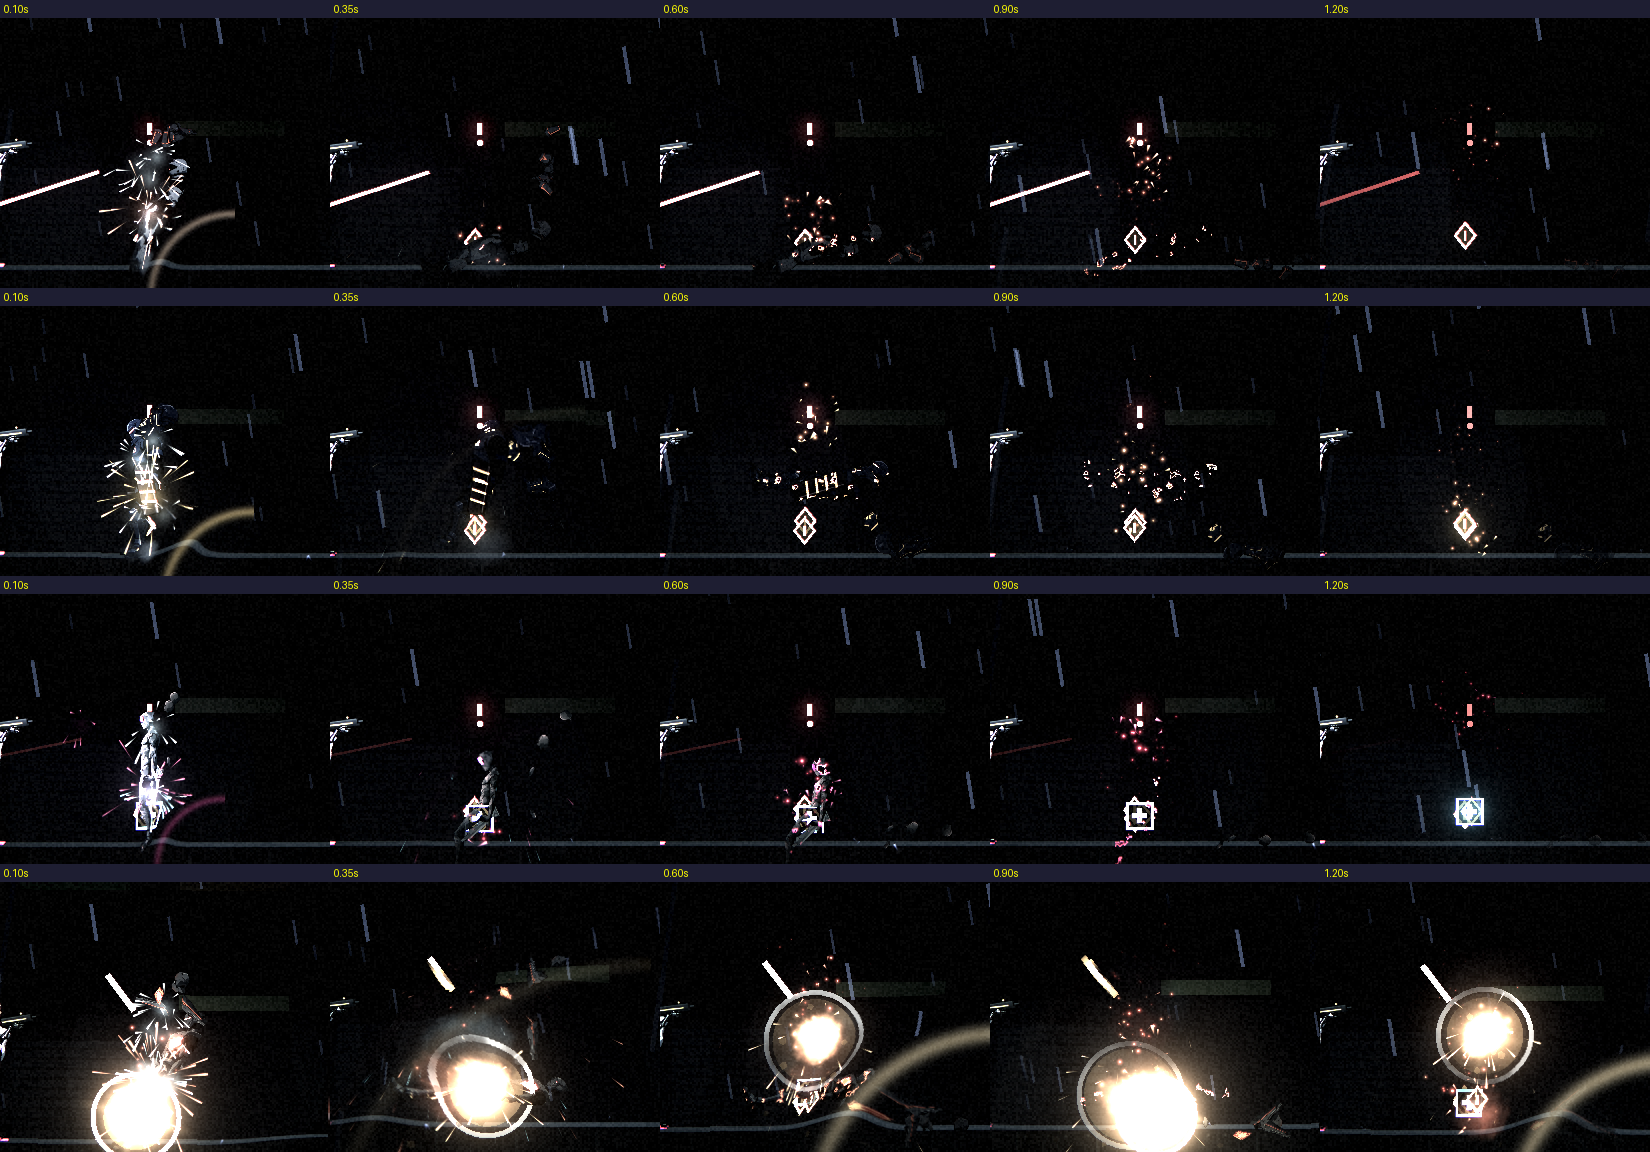
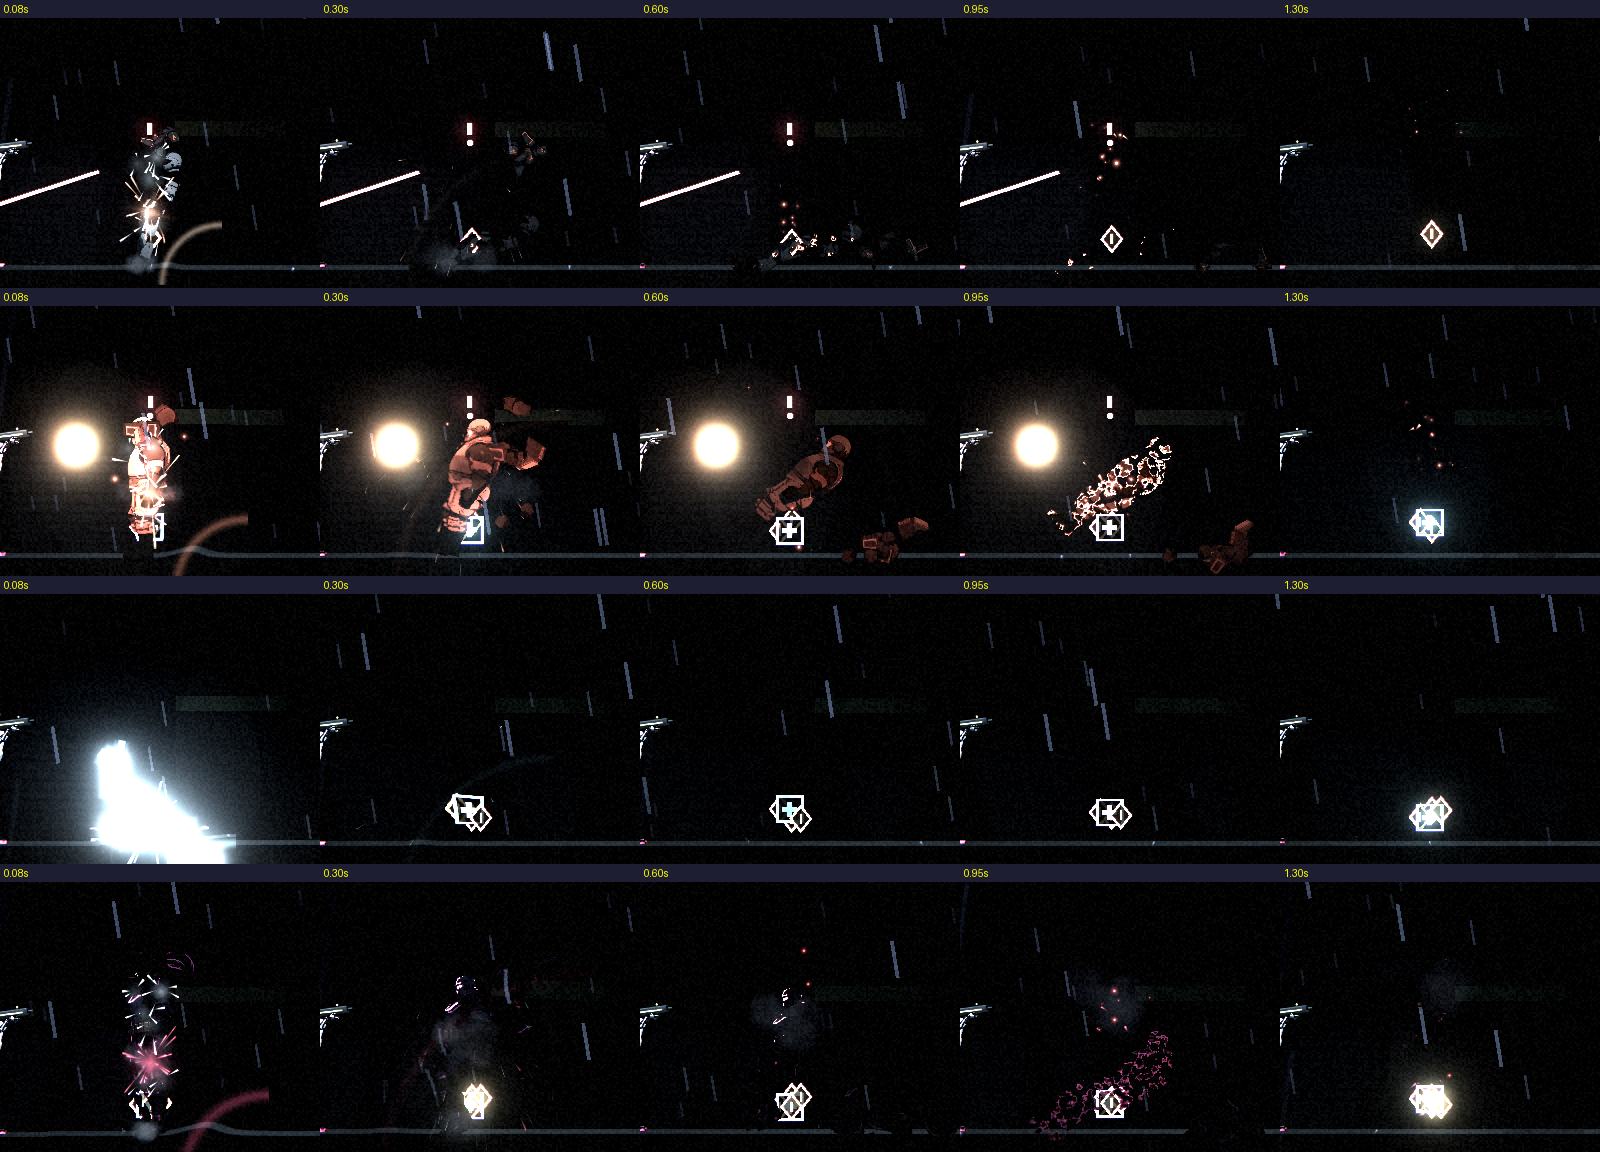
[NE-95] 特效收斂：粒子數量減半、閃光與衝擊波減弱、電弧降低亮度，克制係數集中在 Fx 的三個常數

diff --git a/pm/Nest-Egg/[NE-95]特效升級.md b/pm/Nest-Egg/[NE-95]特效升級.md
@@ -21,6 +21,7 @@
 - [ ] 玩家的子彈飛行（彈道拖尾）、格擋與完美反彈、衝刺殘影、義體能力與重生等的特效也升級
 - [ ] 環境特效（雨、蒸汽、火花、霓虹閃爍）升級
 - [ ] 在所有光影設定下檢查不過曝、不會被泛光吃掉
+- [x] 特效克制：粒子數量整體減半、閃光與衝擊波減弱（`Fx` 的 `PARTICLE_SCALE`、`FLARE_SCALE`、`SHOCK_SCALE` 三個係數，要整體調整只改這三個）；電弧與閃光不過曝，只留必要的元件
 
 ### 測試流程
 1. 執行 `tools/screenshot.tscn -- --scenario=enemy_vfx --enemies=... --times=0.05,0.2,0.5,...` 與 `tools/vfx_strip.py` 看死亡演出的連續畫面
@@ -41,6 +42,7 @@
 
 ## 內文
 
+使用者要求特效「合理且順暢就好、粒子要克制」，所以整體收斂：粒子數量減半、閃光與衝擊波減弱、爆炸只留核心閃光與少量火球、煙、火花、餘燼、碎片、電弧與閃光降低亮度避免過曝。
 特效原本是幾個像素的方塊與線。現在有一套柔邊貼圖加兩層粒子場的新系統：火花是沿速度拉長、頭近白熱的亮線；爆炸有核心閃光、火球、煙、火花、餘燼、碎片與折射畫面的衝擊波；命中有星芒；機械敵人死亡會電弧四散；人形敵人死亡時身體先碎裂、再依雜訊逐塊燒掉，邊緣冒炭火光並噴餘燼，每個敵人有自己的顏色、時間與方向（保全由下往上燒、鎮暴員由上往下、重裝機槍手與電擊犬無方向）。槍口多了星芒與火花。
 還沒做所以維持「進行中」：實際玩一輪調整強度，以及玩家子彈、格擋、衝刺、義體能力與環境特效的升級。依使用者指示，沒有跑完整測試套件，只跑特效、角色與各敵人、道具相關測試（2071 項、0 失敗）。
 
